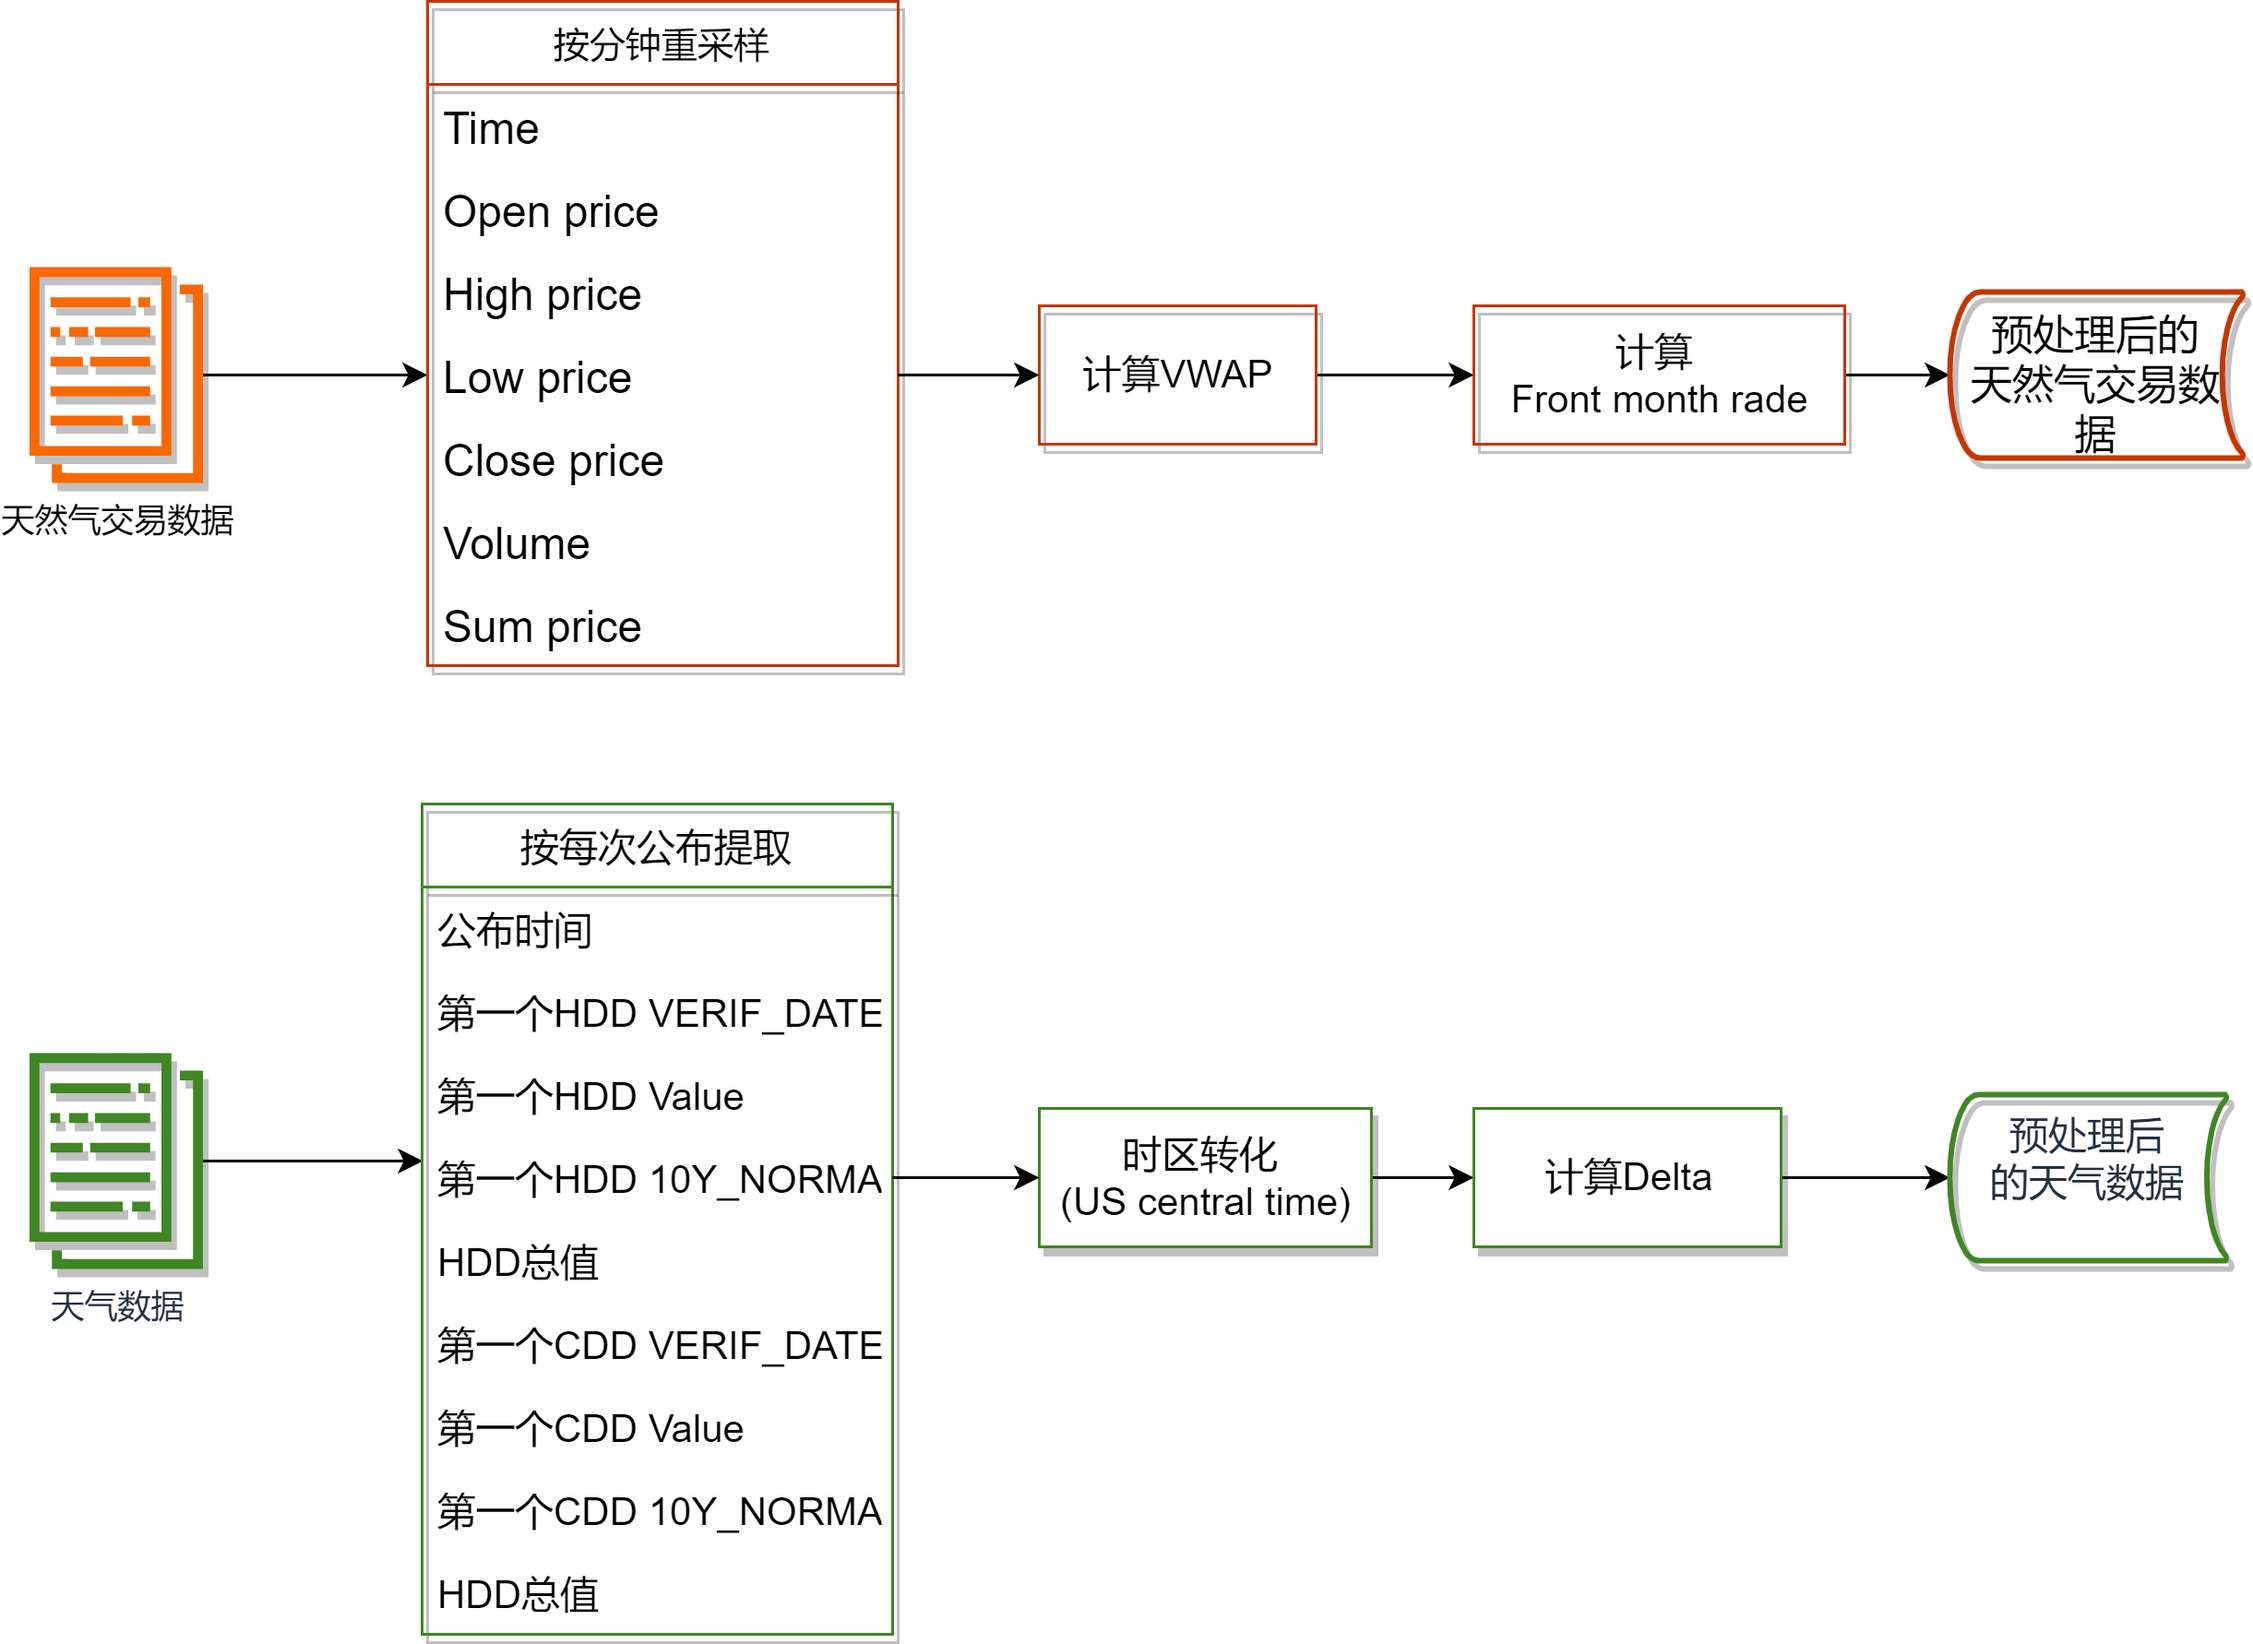
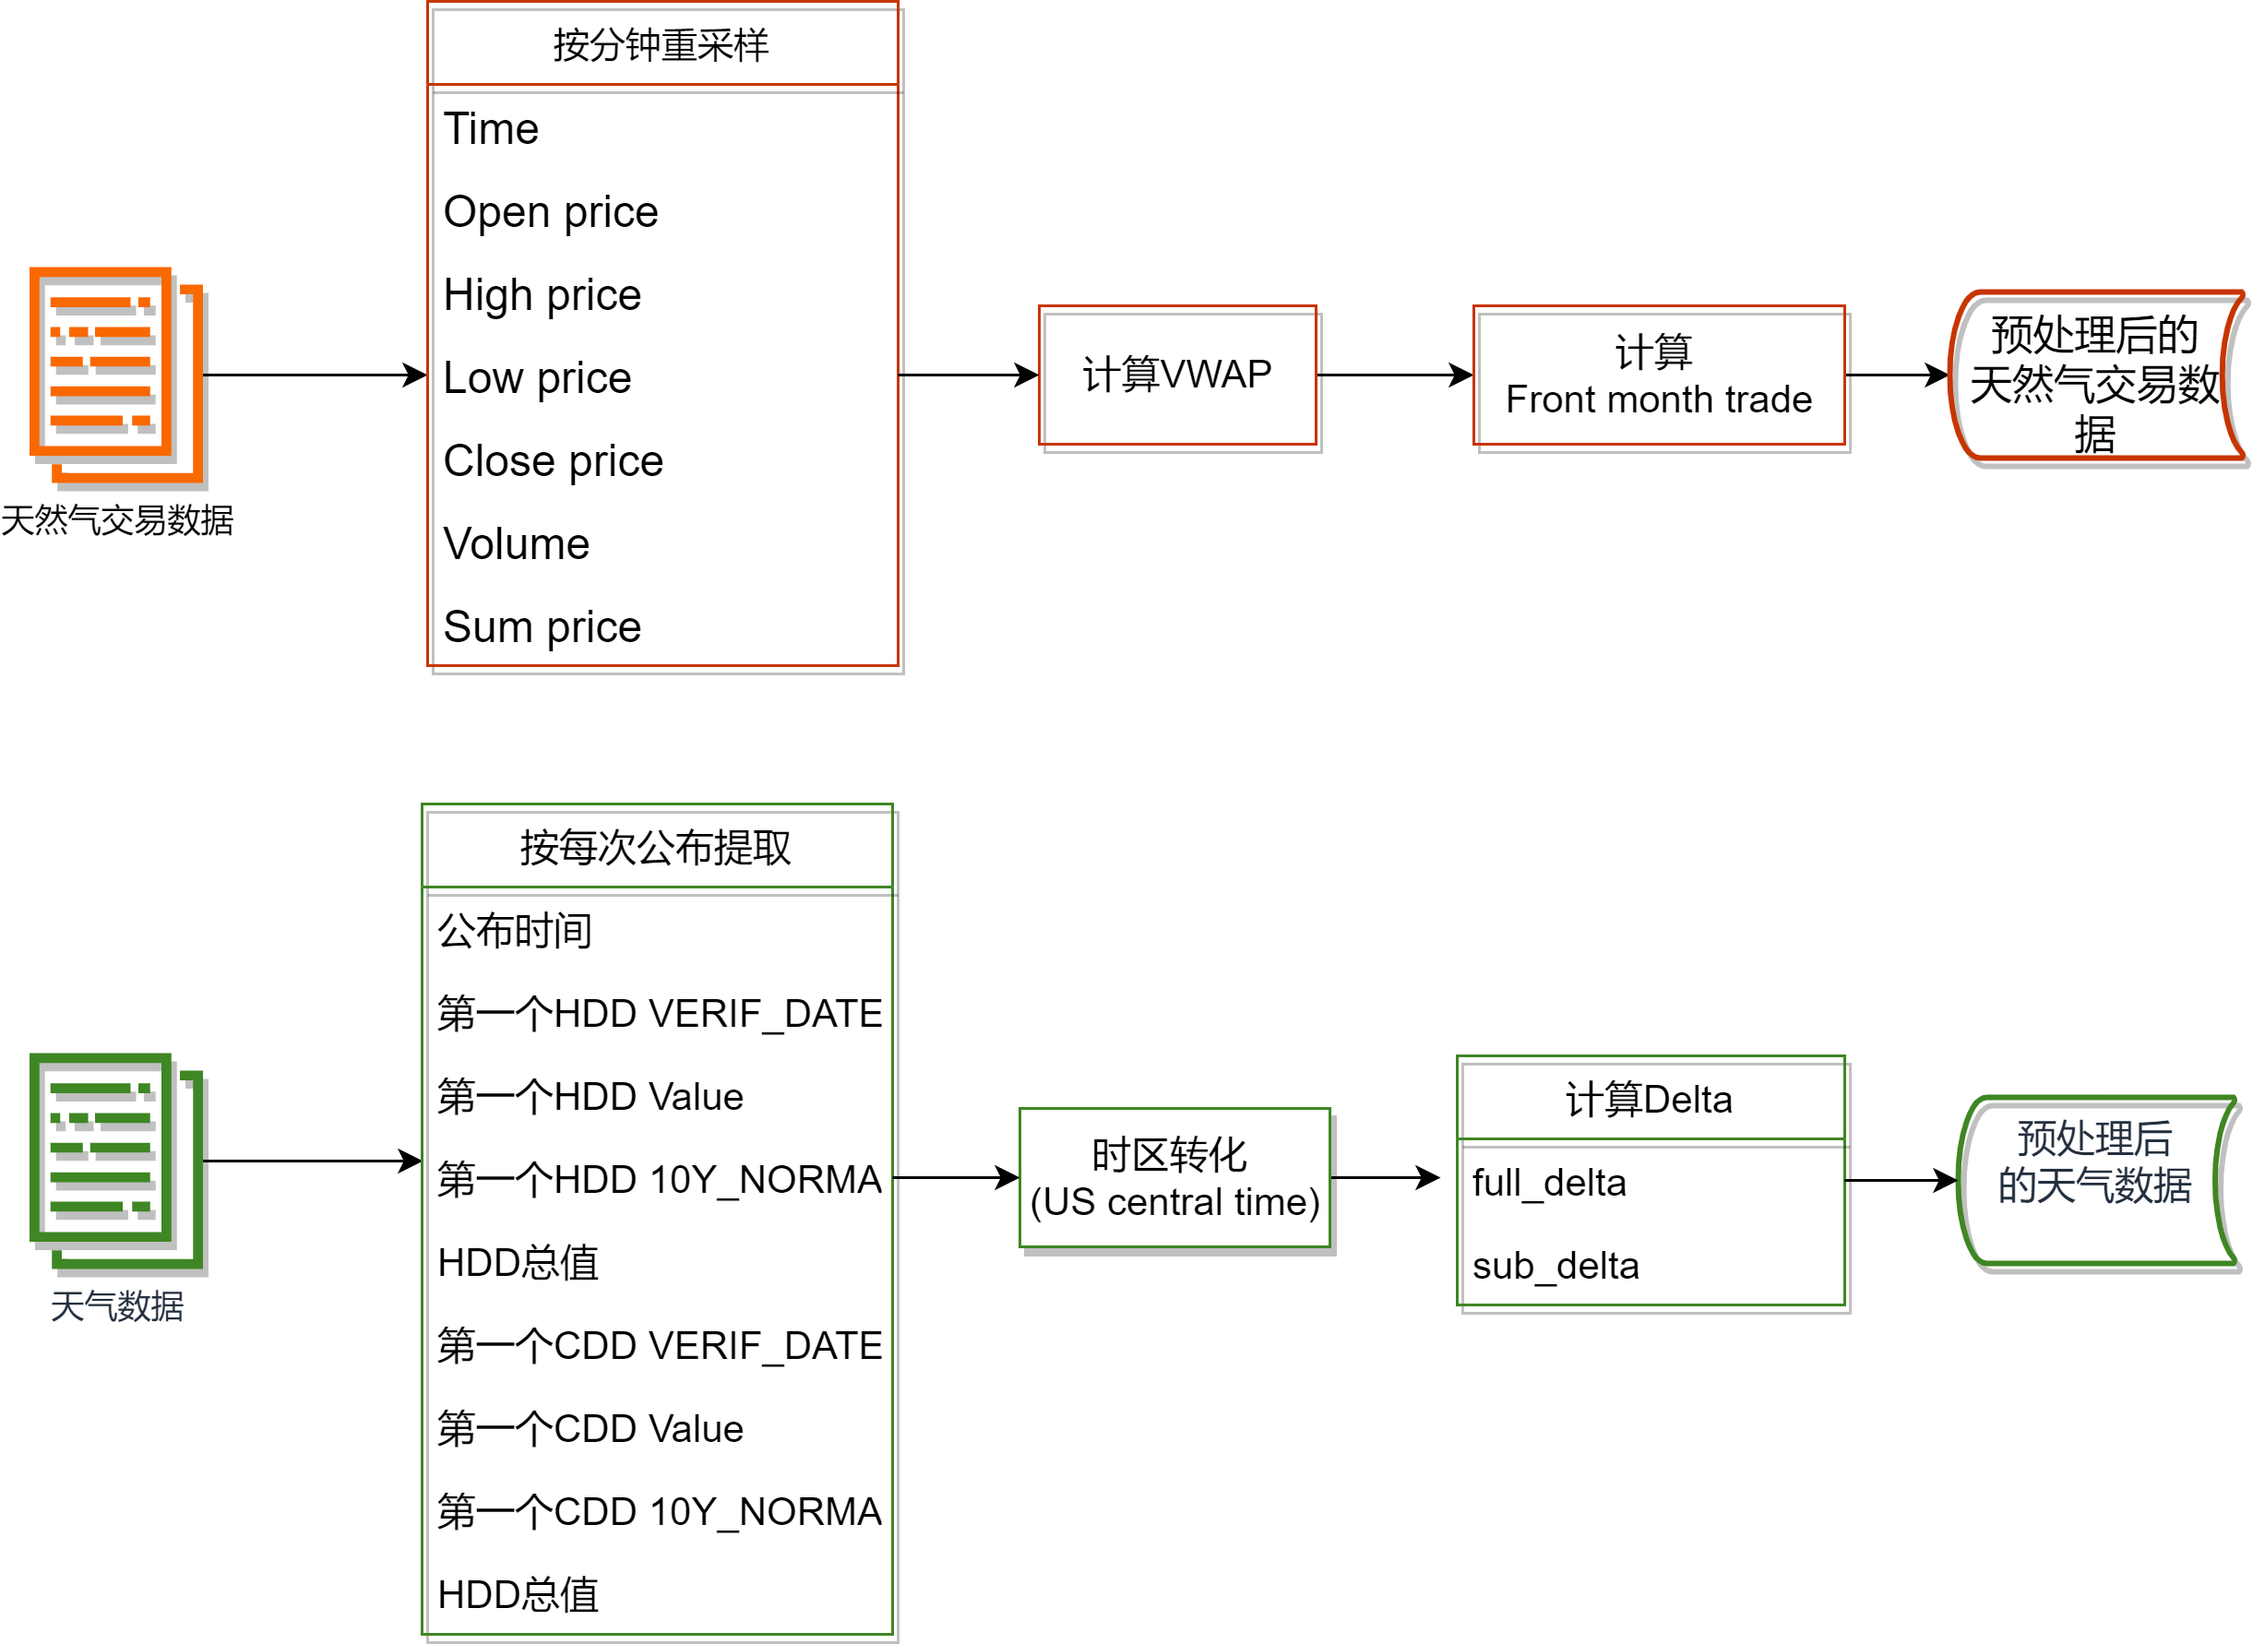
readme

Changed region(s): [[0.4357, 0.6173, 0.9959, 0.8025], [0.6847, 0.216, 0.8092, 0.2469]]

diff --git a/README.md b/README.md
@@ -70,7 +70,8 @@
 
 本项目使用 Python 3 语言开发，推荐使用 [Anaconda](https://www.anaconda.com/) 管理 Python 环境。
 参考 [Installation Anaconda](https://docs.anaconda.com/anaconda/install/windows/) 根据使用的操作系统下载和安装最新版本的 Anaconda。
-* 创建并激活环境
+
+- 创建并激活环境
   
 ```bash
 conda create -n <YOUR_ENVIRONMENT_NAME>  python=3.8 
@@ -79,7 +80,7 @@ conda activate <YOUR_ENVIRONMENT_NAME>
 
 Anaconda 的更多使用可参考 [manage-environments](https://docs.conda.io/projects/conda/en/latest/user-guide/tasks/manage-environments.html)。**注意：文档中以下示例均在该激活的环境下运行。**
 
-* 项目依赖安装
+- 项目依赖安装
 
 ```bash
 cd <YOUR_DIR>/gasAnalyis
@@ -90,7 +91,7 @@ pip install -r requirements.txt
 
 ### 3.1 模块功能
 
-本模块对天然
+本模块对天然气交易数据和天气数据进行预处理。处理过程如下图所示，针对天然气交易数据，得到每分钟内交易的特征，并划分 Front month trade。针对给定的天气数据，按照气象站每天每次公布的记录提取特征，并将记录的公布时间转化为 US Central time 时间。
 
 ![data_preprocess](/assets/data_preprocess.png)
 
@@ -108,8 +109,8 @@ python -u  src/data/make_dataset.py ARCHIVE_INPUT_PATH WEATHER_NAME WEATHER_INPU
 | **WEATHER_NAME**        | 使用的天气数据名         | ecmen, ecmop, gfsop, gfsen |      | ecmen                                                             |
 | **WEATHER_INPUT_PATH**  | 使用的天气路径           |                            |      | data/raw/WeatherData/ECMEN_WDD_Forecasts_20100101_20210331.csv.gz |
 | **ARCHIVE_OUTPUT_PATH** | Archive 预处理后保存路径 |                            |      | data/processed/Archive                                            |
-| **WEATHER_OUTPUT_PATH** | 天气数据预处理后输出路径 |                            |      | data/processed/WeatherData                                        |
-| **START_YEAR**          | 使用数据开始年份         |                            |      | 2015                                                              |
+| **WEATHER_OUTPUT_PATH** | 天气数据预处理后保存路径 |                            |      | data/processed/WeatherData                                        |
+| **START_YEAR**          | 选择使用数据开始年份         |                            |      | 2015                                                              |
 
 #### 3.2.2 示例
 
@@ -126,6 +127,8 @@ python -u  src/data/make_dataset.py
 ## 4. 构建特征
 
 ### 4.1 模块功能
+
+![build_feature](/assets/build_feature.png)
 
 ### 4.2 运行方式
 
@@ -158,6 +161,7 @@ python -u src/features/build_features.py
 
 ## 5. 模型训练及可视化
 
+![km_model](/assets/km_model.png)
 ### 5.1 模块功能
 
 ### 5.2 运行方式
